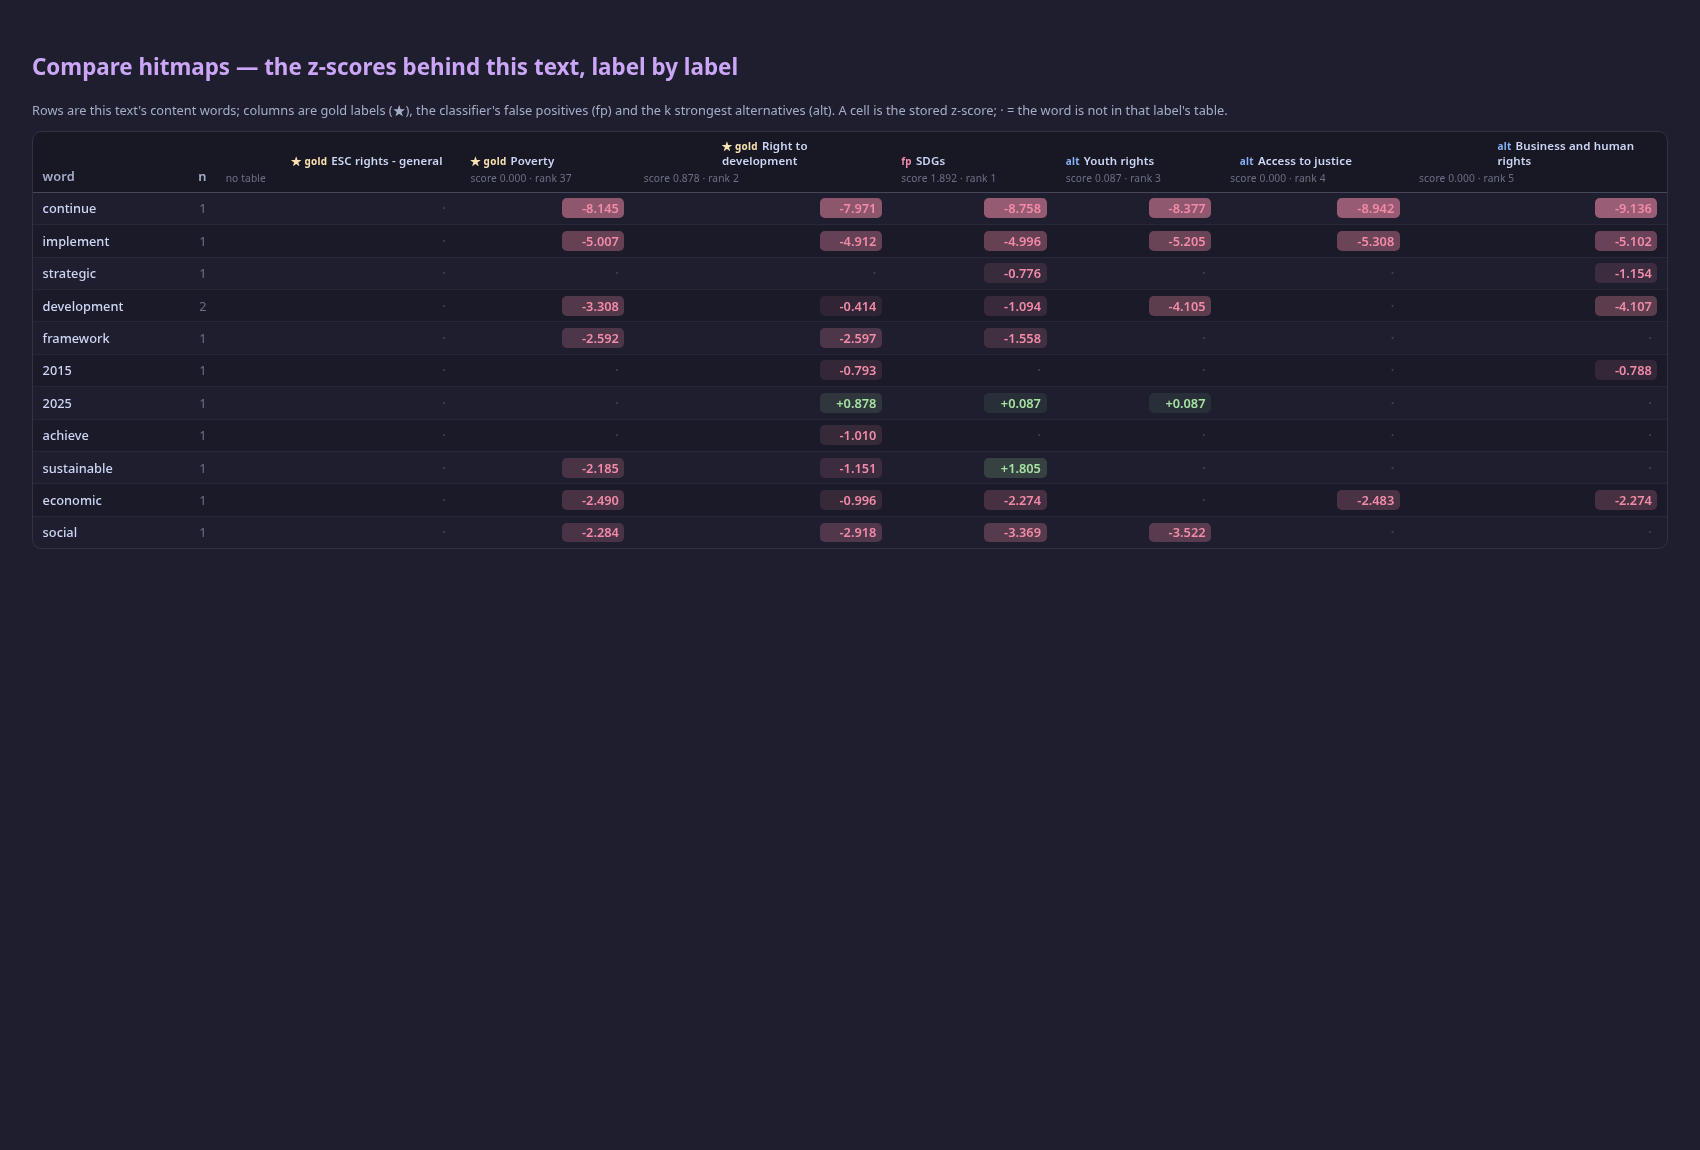
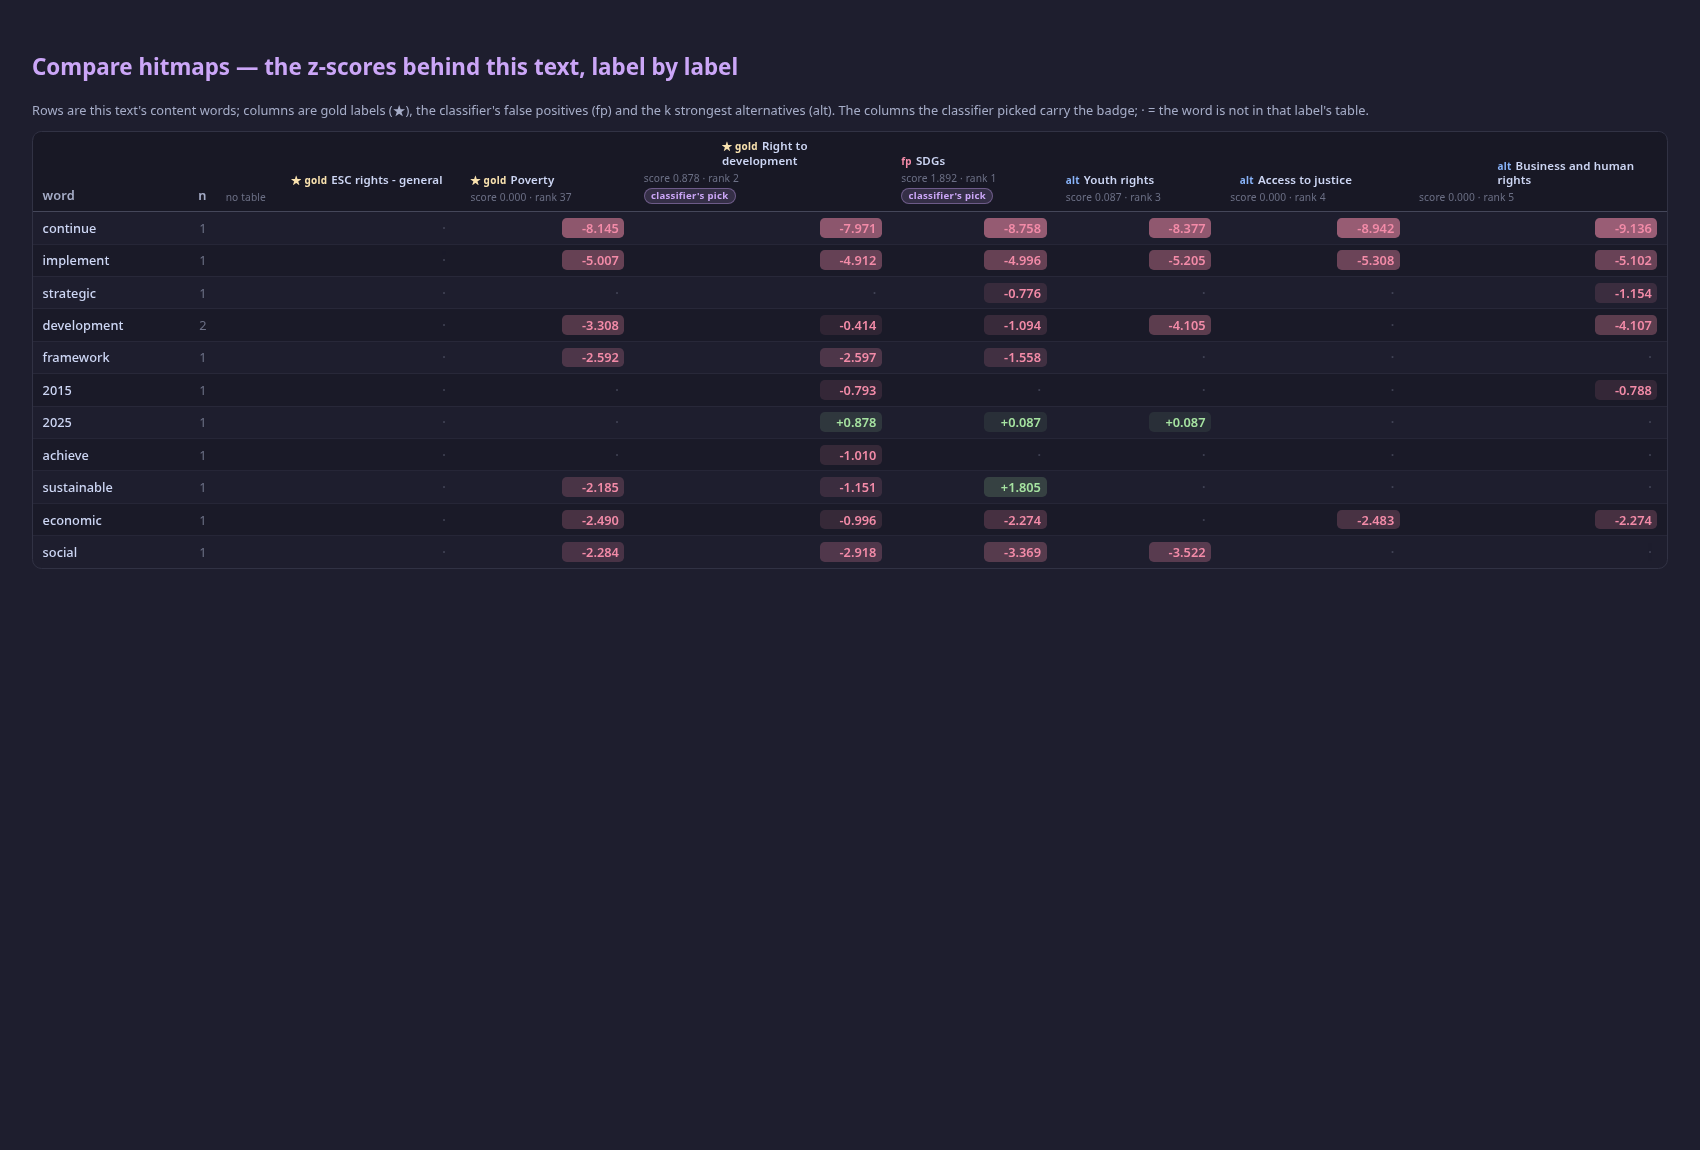
Feat: mark the classifier's picks in the hitmap headers

diff --git a/tools/error_app.css b/tools/error_app.css
@@ -101,3 +101,4 @@ a { color: var(--ctp-blue); }
 .ev-z-neg { color: var(--ctp-red); background: rgba(243, 139, 168, var(--alpha)); }
 .ev-z-zero { color: var(--ctp-overlay0); }
 .ev-z-none { color: var(--ctp-overlay0); opacity: 0.45; }
+.ev-pick { display: inline-block; margin-top: 0.2rem; padding: 0.04rem 0.4rem; border-radius: 999px; font-size: 0.6rem; font-weight: 700; letter-spacing: 0.03em; color: var(--ctp-mauve); background: rgba(203, 166, 247, 0.16); border: 1px solid rgba(203, 166, 247, 0.38); }

diff --git a/tools/error_app.py b/tools/error_app.py
@@ -1018,7 +1018,7 @@ def _hitmap_columns(
     tables: ev.Tables,
     record: Any,
     extra: int,
-) -> list[tuple[str, str, float, int, bool]]:
+) -> list[tuple[str, str, float, int, bool, bool]]:
     """The hitmap's columns: gold, false positives, then the strongest alternatives.
 
     The false positives are every predicted non-gold label (all of them, not a
@@ -1041,11 +1041,11 @@ def _hitmap_columns(
         if label not in gold_set and label not in false_positives and cells[label].has_table
     ]
     alternatives.sort(key=lambda label: (-cells[label].score, labels.index(label)))
-    columns: list[tuple[str, str, float, int, bool]] = []
+    columns: list[tuple[str, str, float, int, bool, bool]] = []
     for label in [*gold, *false_positives, *alternatives[:extra]]:
         kind = "gold" if label in gold_set else ("fp" if label in false_positives else "alt")
         cell = cells[label]
-        columns.append((label, kind, cell.score, cell.rank, cell.has_table))
+        columns.append((label, kind, cell.score, cell.rank, cell.has_table, cell.predicted))
     return columns
 
 
@@ -1055,16 +1055,18 @@ def _hitmap_header(
     score: float,
     rank: int,
     has_table: bool,
+    predicted: bool,
 ) -> str:
-    """One hitmap column header: the kind tag, the label and its score/rank."""
+    """One hitmap column header: the kind, the label, its score/rank and the pick."""
     tag = {"gold": "★ gold", "fp": "fp", "alt": "alt"}[kind]
     tag_class = {"gold": "ev-h-gold", "fp": "ev-h-fp", "alt": "ev-h-alt"}[kind]
     meta = "no table" if not has_table else f"score {score:.3f} · rank {rank}"
+    picked = '<span class="ev-pick">classifier\'s pick</span>' if predicted else ""
     return (
         '<th style="text-align:left">'
         f'<span class="ev-h-label"><span class="ev-h-tag {tag_class}">{tag}</span>'
         f"{_esc(label)}</span>"
-        f'<span class="ev-h-meta">{_esc(meta)}</span></th>'
+        f'<span class="ev-h-meta">{_esc(meta)}</span>{picked}</th>'
     )
 
 
@@ -1083,7 +1085,7 @@ def _z_cell(value: float | None, maximum: float) -> str:
 
 
 def _hitmap_table(
-    columns: list[tuple[str, str, float, int, bool]],
+    columns: list[tuple[str, str, float, int, bool, bool]],
     rows: Sequence[ev.HitmapRow],
 ) -> str:
     """The word x label matrix, with the header pinned by the shared CSS."""

diff --git a/tests/test_error_app.py b/tests/test_error_app.py
@@ -143,6 +143,9 @@ def test_the_compare_hitmaps_view(fixture: Any, monkeypatch: pytest.MonkeyPatch)
     assert 'data-columns="word|n|A|B|D"' in shown
     assert "ev-h-gold" in shown and "ev-h-fp" in shown and "ev-h-alt" in shown
     assert "ev-z-pos" in shown and "ev-z-none" in shown
+    # val-1's picks are A (gold, predicted) and B (fp): two header badges
+    assert shown.count('<span class="ev-pick">') == 2
+    assert "classifier's pick" in shown
     assert "alpha" in shown and "beta" in shown
 
 
@@ -269,3 +272,4 @@ def test_the_stylesheet_carries_the_table_look() -> None:
     assert "z-index: 2" in css
     assert ".ev-z-pos" in css
     assert ".ev-h-gold" in css
+    assert ".ev-pick" in css

diff --git a/docs/error_viewer.md b/docs/error_viewer.md
@@ -306,7 +306,8 @@ A cell is the corpus map's **stored z-score** for that (word, label) pair:
 green pulls the label up, red pushes it down. `·` means the word is **not in
 that label's table** — the map is silent, and the scorer contributes 0, so the
 cell is never printed as a measured zero. The column header carries the label's
-map score and classifier rank, or `no table` for the held-out labels. The shared
-table frame keeps the header pinned while the rows scroll.
+map score and classifier rank, or `no table` for the held-out labels. Columns
+the classifier actually picked carry a **classifier's pick** badge next to their
+rank. The shared table frame keeps the header pinned while the rows scroll.
 
 ![Compare hitmaps](error_viewer_hitmaps.png)
